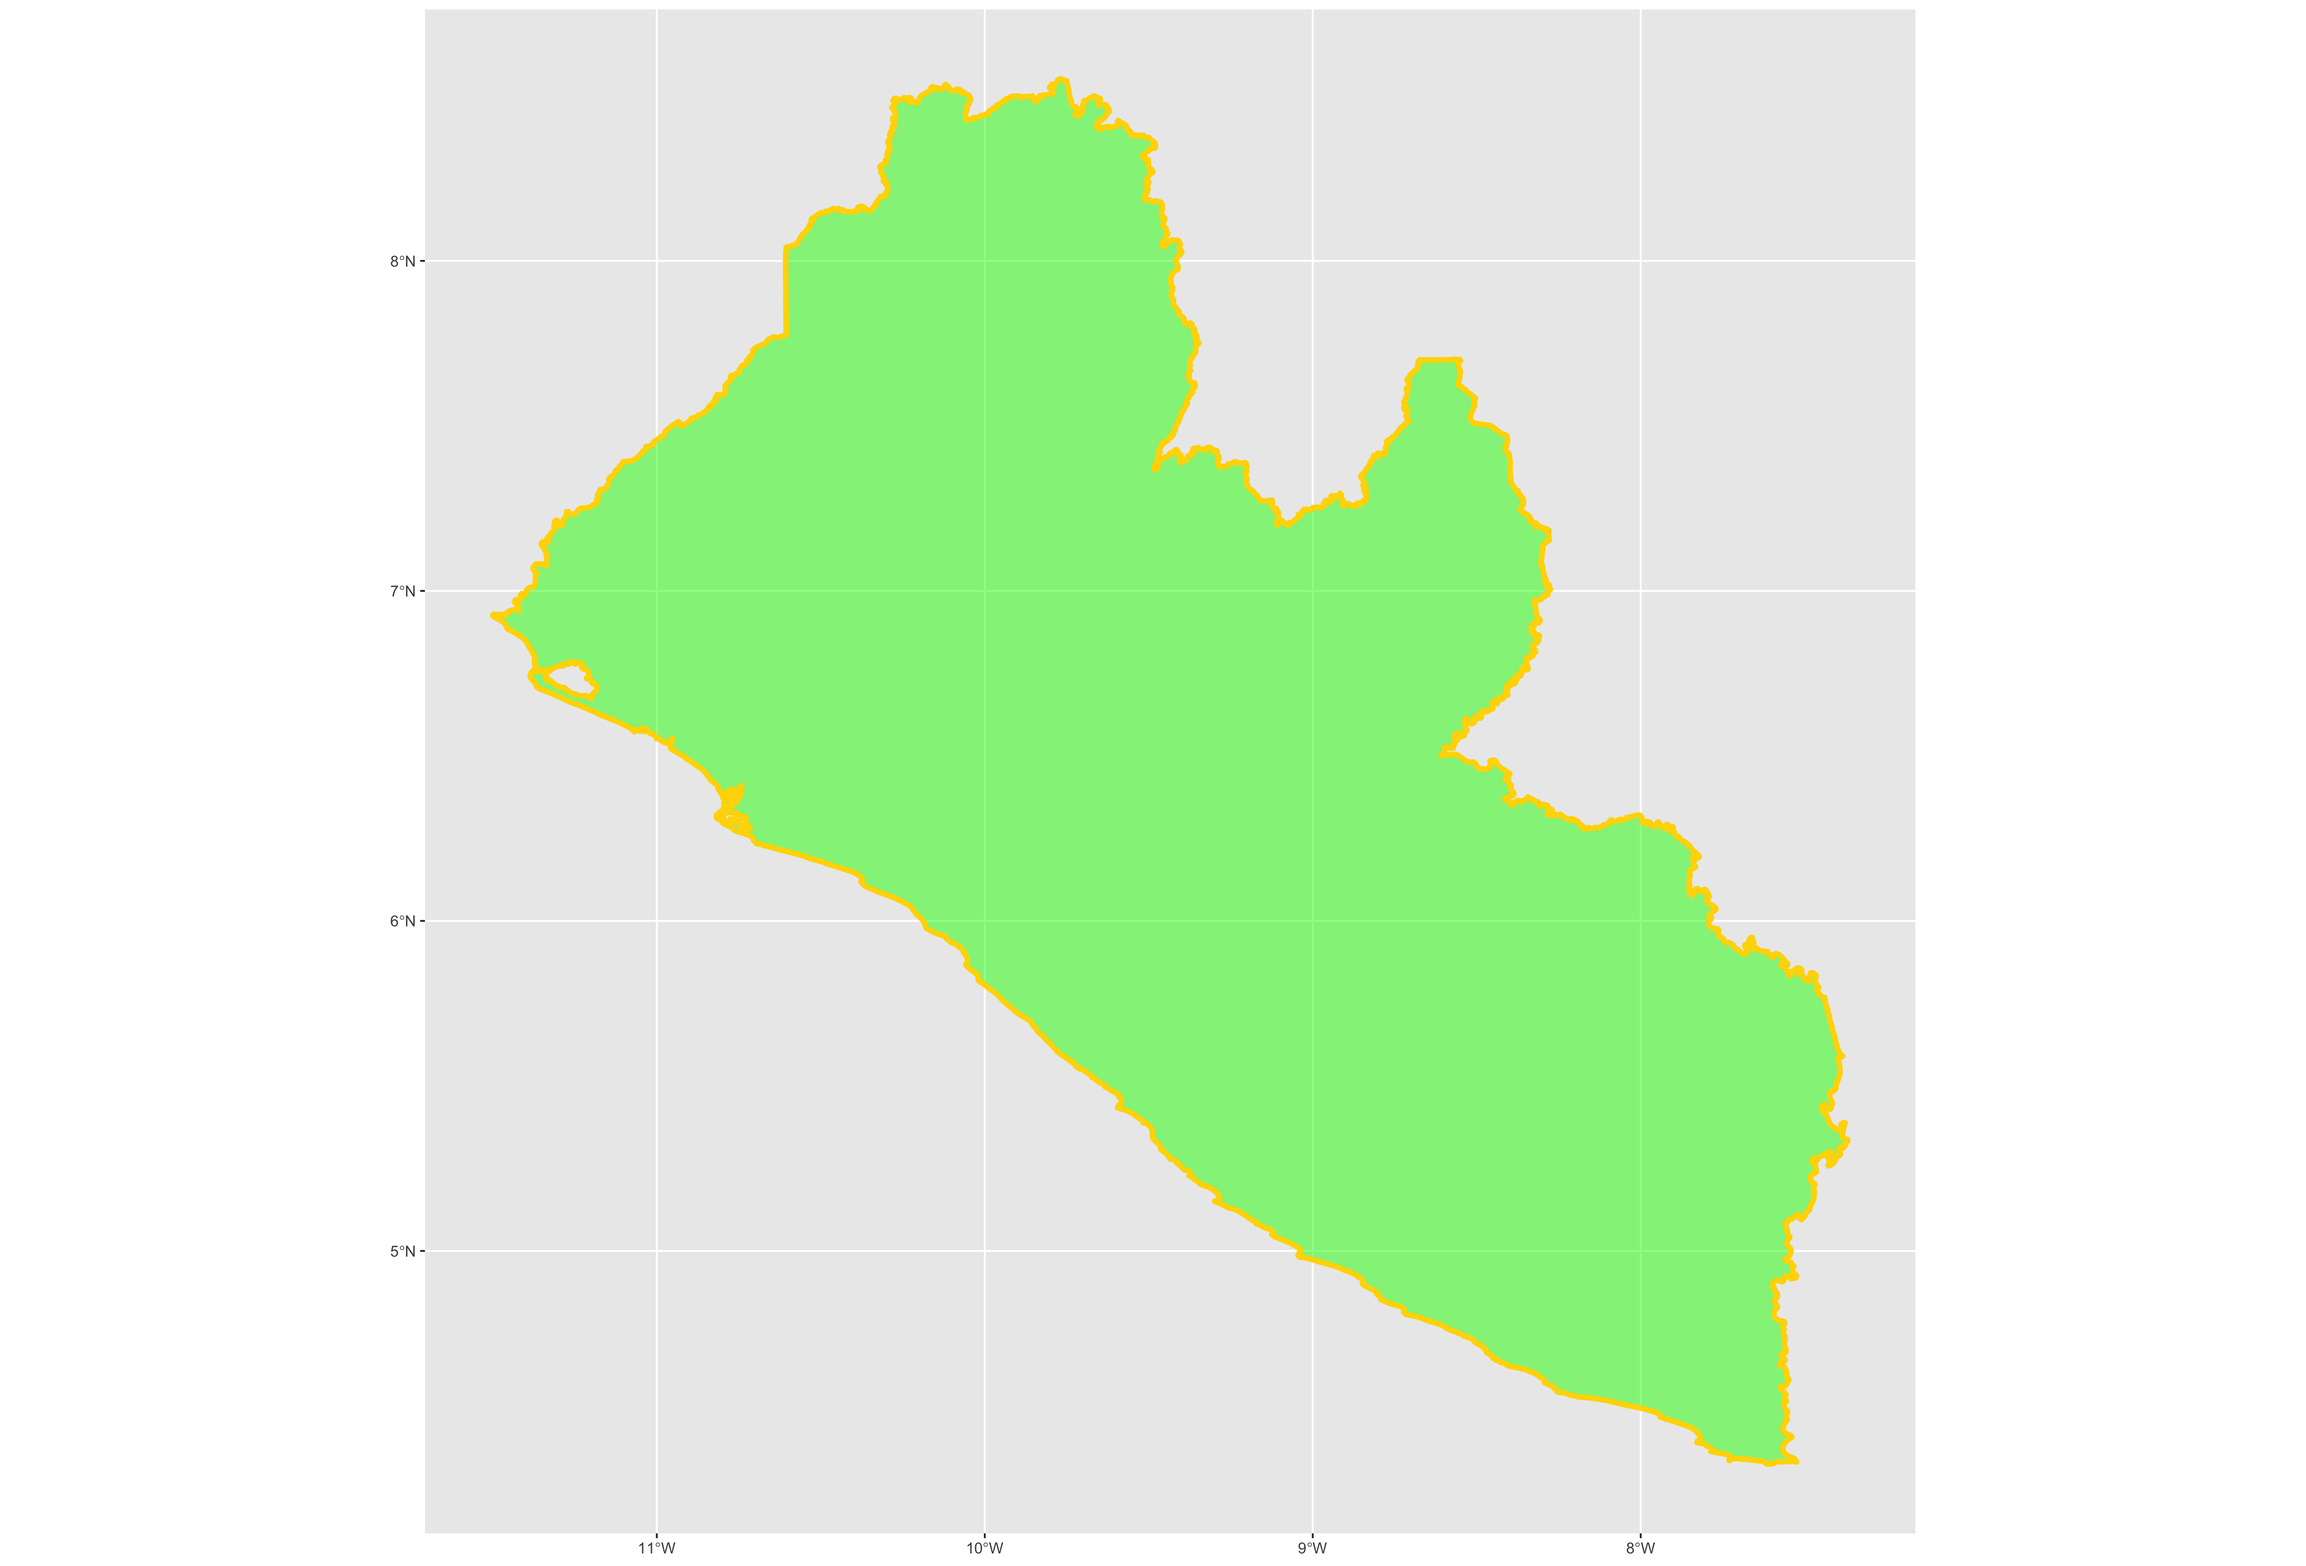
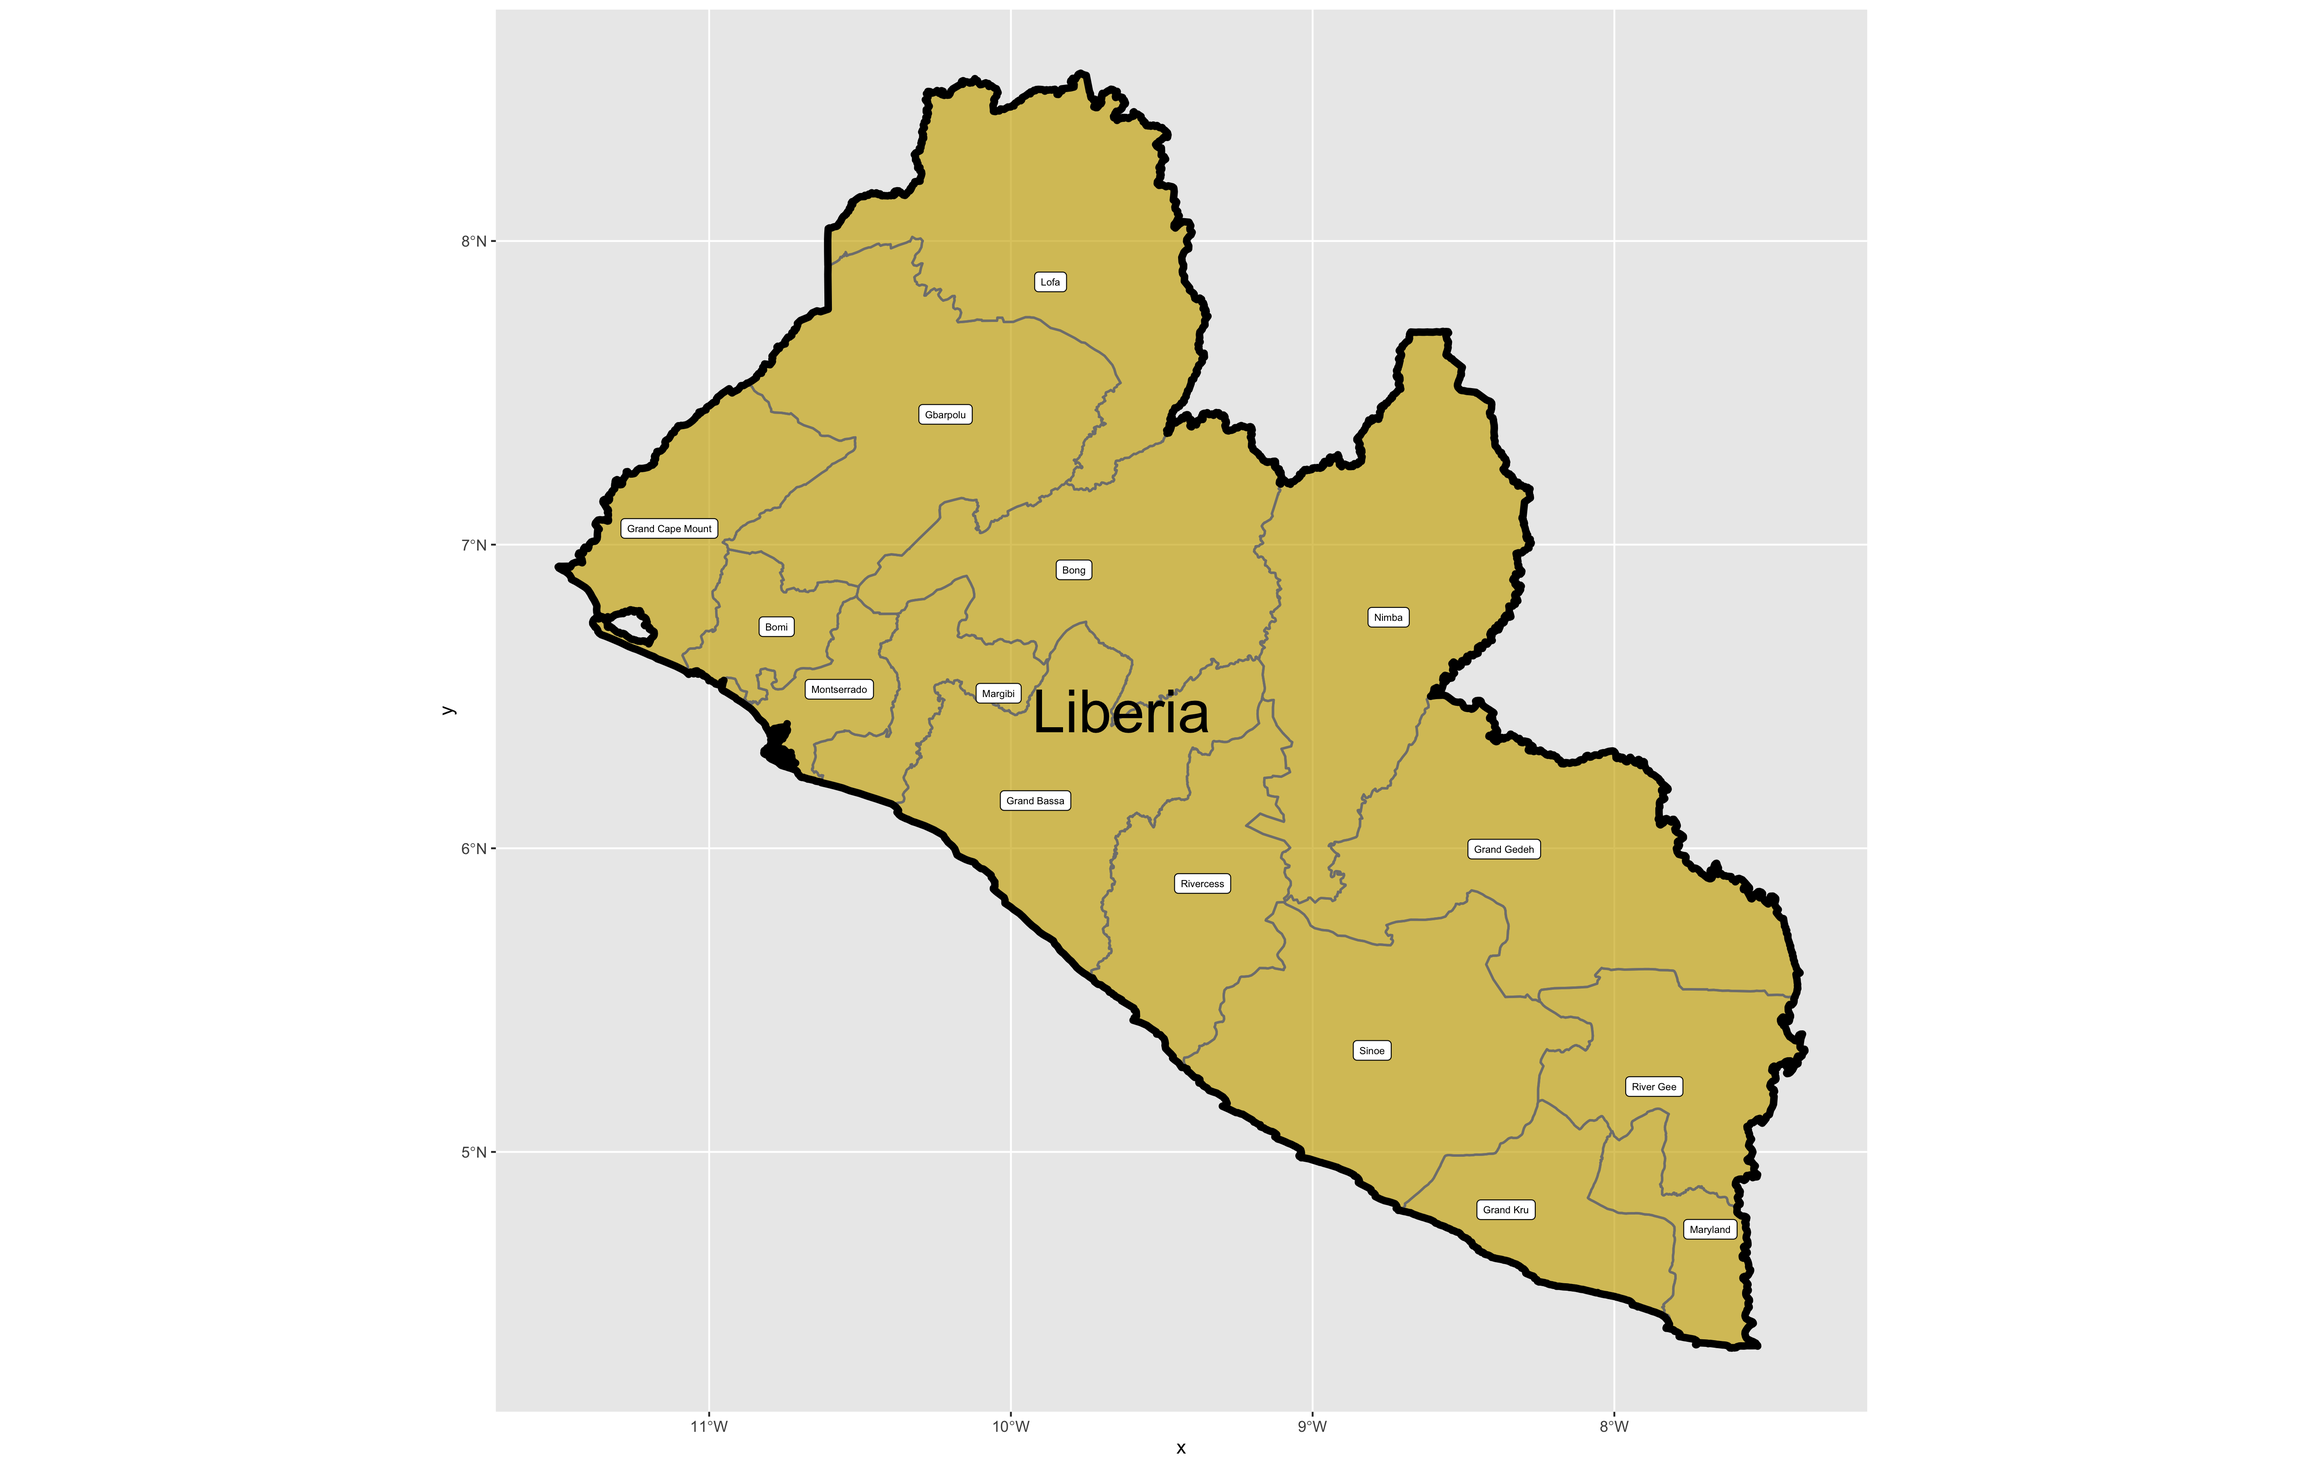
GitBook: [master] one page and 2 assets modified

diff --git a/test/an-introduction-to-spatial-data.md b/test/an-introduction-to-spatial-data.md
@@ -81,7 +81,7 @@ Now that we have conducted a cursory investigation of our simple feature object 
 
 Following the `data =` argument, you can also specifiy the line weight for the border using the `size =` argument.  It is also possible to specify the `color =` as well as the opacity / transparency of your polygon using the `alpha =` argument.  With the following script I have set the international border line weight width to `1.5` , the color of the border to `"gold"` , the fill color for the internal portion of the polygon to `"green"` and the `alpha =`   value to .5 or 50% transparent.
 
-![Liberia with a green fill and gold border](../.gitbook/assets/liberia%20%281%29.png)
+![Liberia with a green fill and gold border](../.gitbook/assets/liberia%20%282%29.png)
 
 It would also be helpful to have a label describing our plot.  In order to do this we can use either the `geom_sf_text()` command or the `geom_sf_label()` command.  In the following snippet of code you will notice that I have added the aesthetics argument within my `geom_sf_text()` command.  The `aes =` argument enables us to specify which variable contains the label we will place on our object.  If you click on the blue arrow to the left of the `lbr_int` object in the top right data pane, the object will expand below to reveal the names of all variables.  The second variable is named `CNTRY_NAME` and provides us with the name we will use as our label, Liberia.  Following the `aes()` argument, you can also specify the `size =` of your label as well as its `color =`.
 
@@ -106,9 +106,35 @@ Good job!  You have successfully used ggplot from the tidyverse with the simple 
 lbr_adm1  <- add_command_here("add_folder_here/add_file_name_here.shp")
 ```
 
-As before you could use the data pane in the top right corner to expand your view of the `lbr_adm1` file you created.  You can also use the `st_geometry()` command again to have a first look at your newly created simple features object that spatially describes the boundaries of Liberia's counties.  Instead of having 1 observation with 7 variables as with the international border, your `lbr_adm1` simple feature object has 15 observations, with each observation having 8 different variables describing some attribute associated with each individual polygon.  Let's plot both Liberia's international border as well as its 15 counties.  
+As before you could use the data pane in the top right corner to expand your view of the `lbr_adm1` file you created.  You can also click on the small grid symbol to the right of your data object \(within the data pane\) in order to view your data in a new tab in the same pane where your script is located.  Whereas before we had a simple feature class object with 1 observation with 7 variables, your `lbr_adm1` simple feature object has 15 observations, with each observation having 8 different variables describing some attribute associated with each individual polygon.  Let's plot both Liberia's international border as well as its 15 counties.
 
+To do this, follow the same approach you used with the `lbr_int` object but replace it with the name of your adm1 spatial object, `lbr_adm1`.  Also follow the same approach you used for adding the labels in your previous snippet of code, but this time specify the variable with the county names from `lbr_adm1`.  
 
+```r
+ggplot() +
+  geom_sf(data = your_adm1_sf_obj,
+          size = value,
+          color = "color",
+          fill = "color",
+          alpha = value) +
+  geom_sf(data = your_int_sf_obj,
+          size = value,
+          color = "color",
+          fill = "color",
+          alpha = value) +
+  geom_sf_label(data = your_adm1_sf_obj,
+               aes(label = variable_name),
+               size = value,
+               color = "color") +
+  geom_sf_text(data = your_int_sf_obj,
+               aes(label = variable_name),
+               size = value,
+               color = "color")
+```
+
+The code above will produce the plot below when the`geom_sf()` function using the `lbr_adm1` arguments is specified with a line weight `size = 0.65`, line weight `color = "gray50"`, a polygon `fill = "gold3"` and a 65% opacity value of `alpha = 0.65`.  
+
+![Liberia and its 15 Counties](../.gitbook/assets/liberia%20%281%29.png)
 
 You may also add a lighter color to the administrative subdivisions in order to graphically display counties as subdividions of the larger nation.  In the above example I have set `border = gray` .  You are welcome to use any color that seemingly works best for you, although gray scales often achieve the task quite well.  Use the `color()` command directly in the console to view a list of all 650 or so colors that are available in base R.
 
